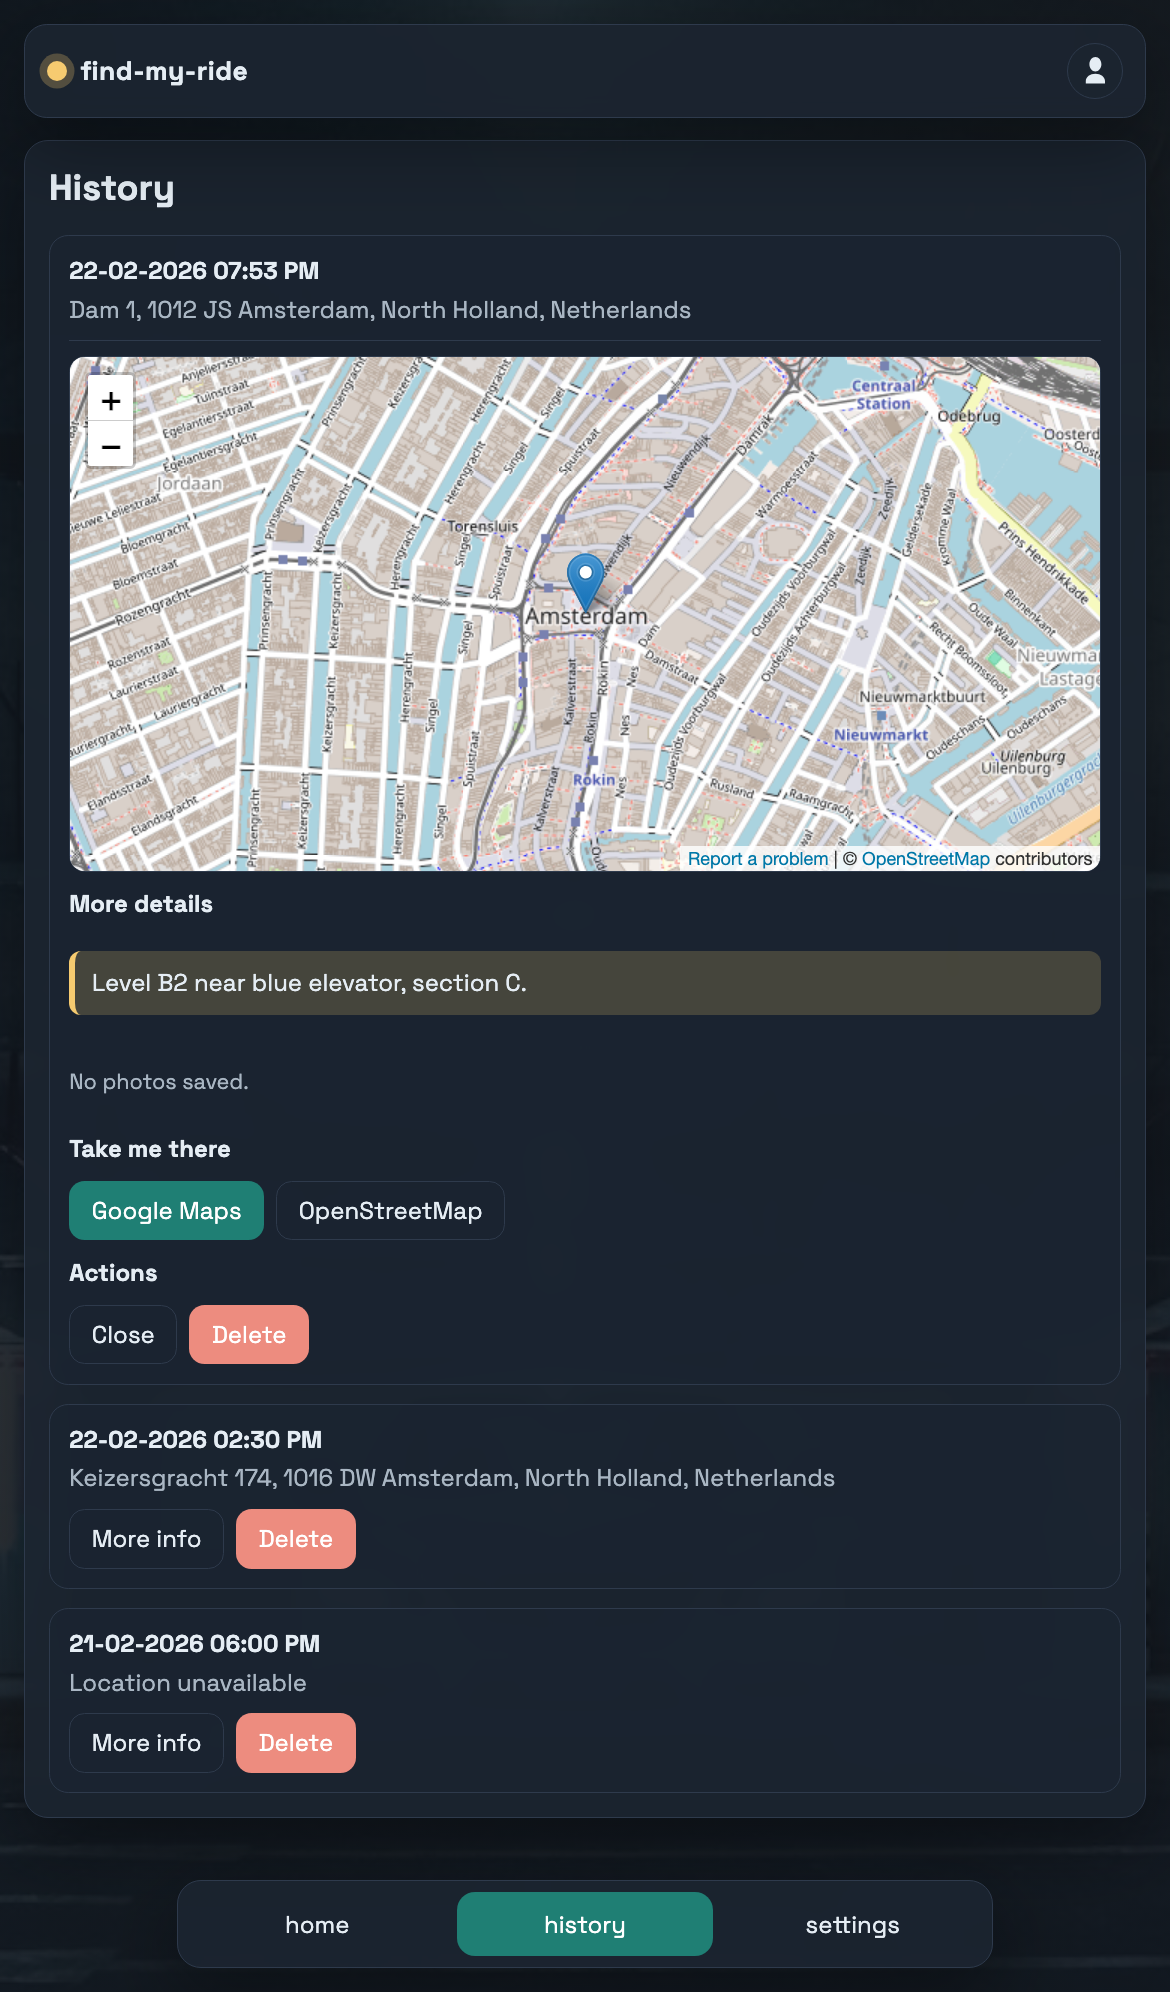
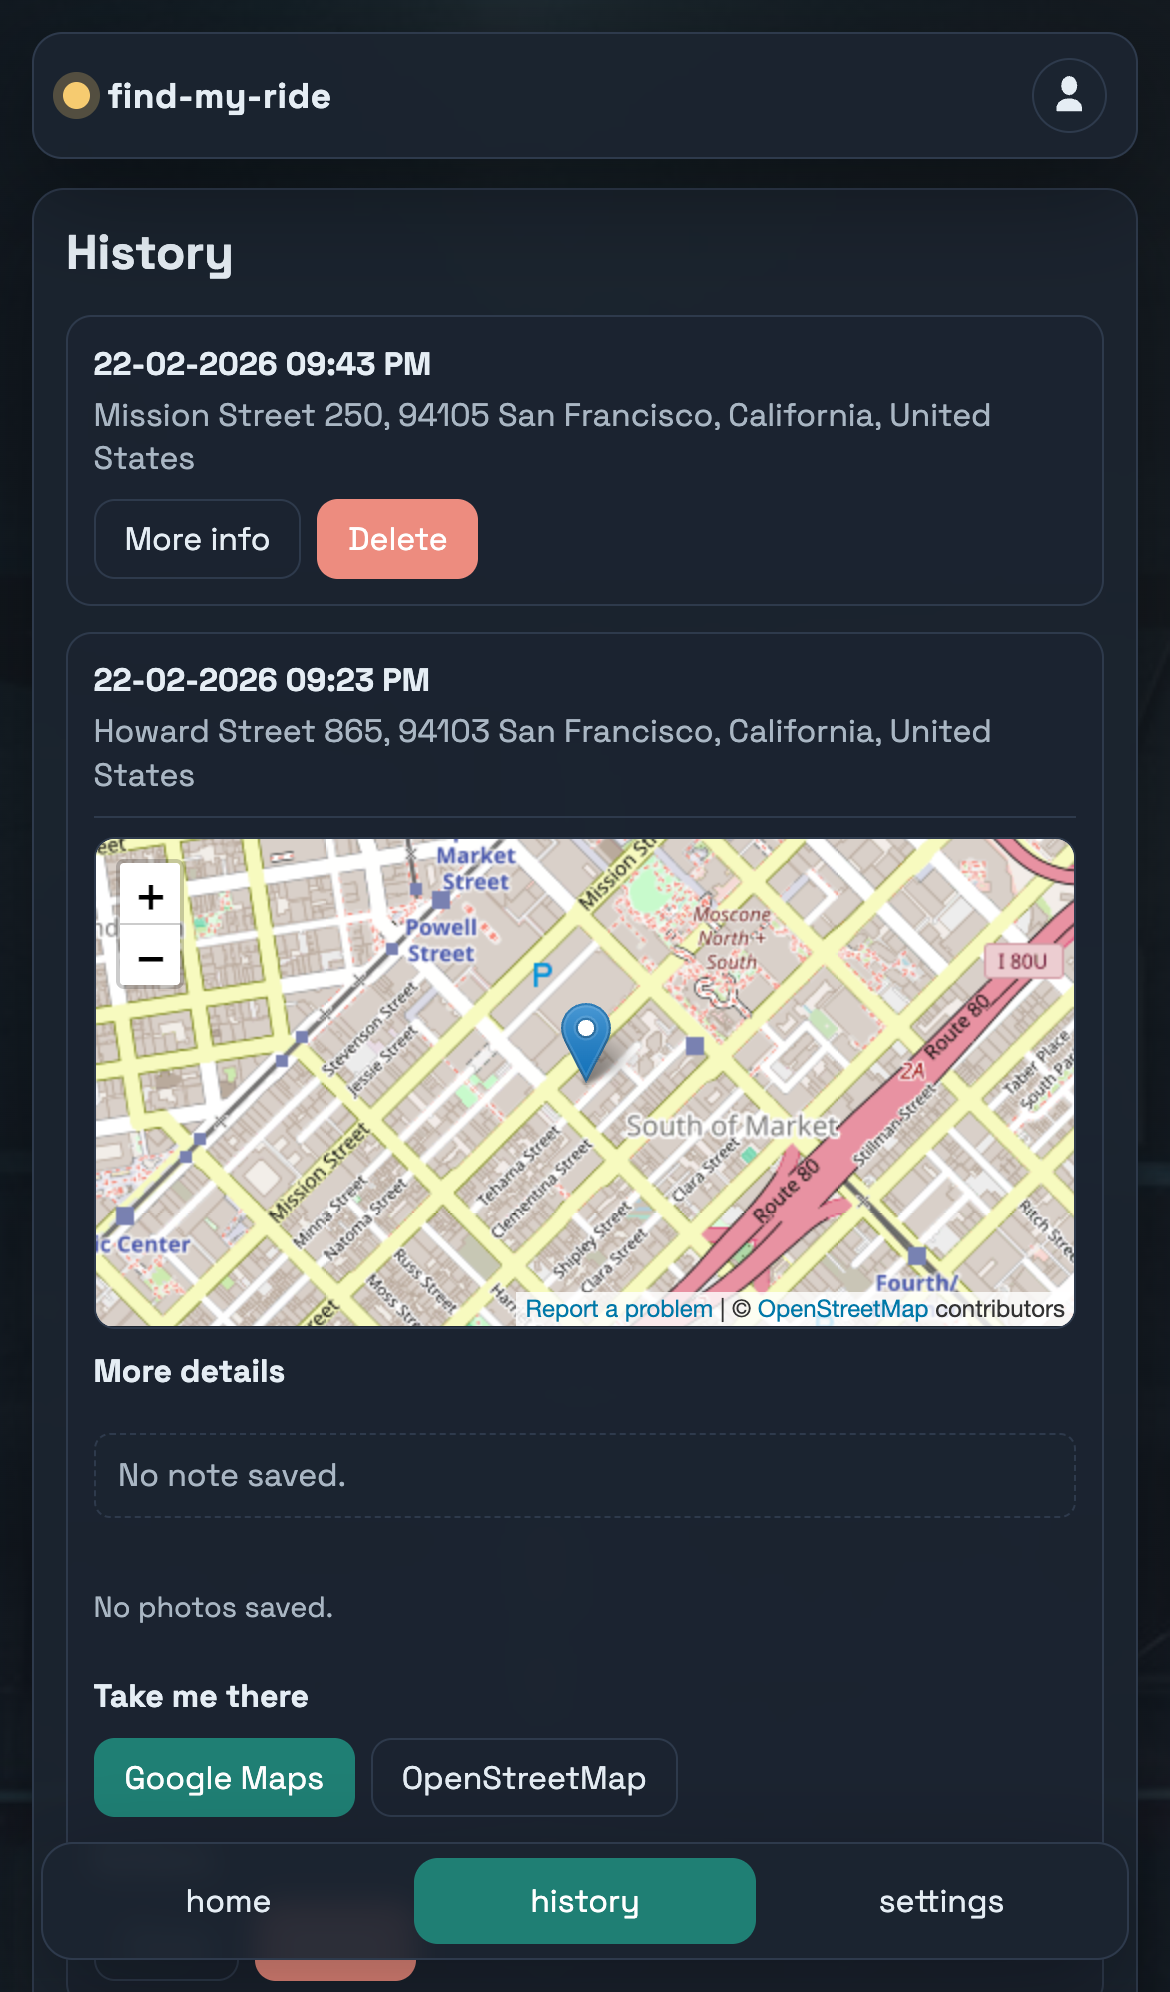
Refresh README screenshots at 2x zoom and update capture workflow

diff --git a/docs/dev-guide.md b/docs/dev-guide.md
@@ -157,15 +157,15 @@ When changing code:
 When refreshing README screenshots (`docs/assets/screenshots/home.png`, `history.png`, `settings.png`), keep these capture defaults so the README layout stays consistent:
 
 - Output format/size: PNG at `1170x1992` for each image.
-- Visual scale: apply `1.5x` page zoom during capture so card text and controls remain readable in the 3-up README gallery.
+- Visual scale: apply `2.0x` page zoom during capture so card text and controls remain readable in the 3-up README gallery.
 - Theme: dark mode (`fmr_theme_mode=dark`) with the default `evergreen` accent.
 - Environment: run against the local Docker stack (`docker compose up -d --build`) on the frontend URL (`http://127.0.0.1:${FRONTEND_PORT}`; current default in this repo is `15173`).
 - Data setup: use a dedicated demo account (currently `readme_demo`) with at least 3 history rows:
   - at least 2 rows with stored geocoded `location_label` + coordinates
   - at least 1 row without location (note/photo fallback state)
 - Required capture states:
-  - `home`: default `Parked?` card
-  - `history`: first record expanded via `More info`, with OpenStreetMap embed visible
+  - `home`: `Parked?` card with a resolved location label (Locate pressed state) and sample note text (`2nd level, section 3d near stairs`)
+  - `history`: second record from the top expanded via `More info`, with OpenStreetMap embed visible and no note/photos on that expanded row
   - `settings`: `Profile` section visible including theme + accent controls
 - Capture hygiene:
   - dismiss transient toasts before each screenshot
